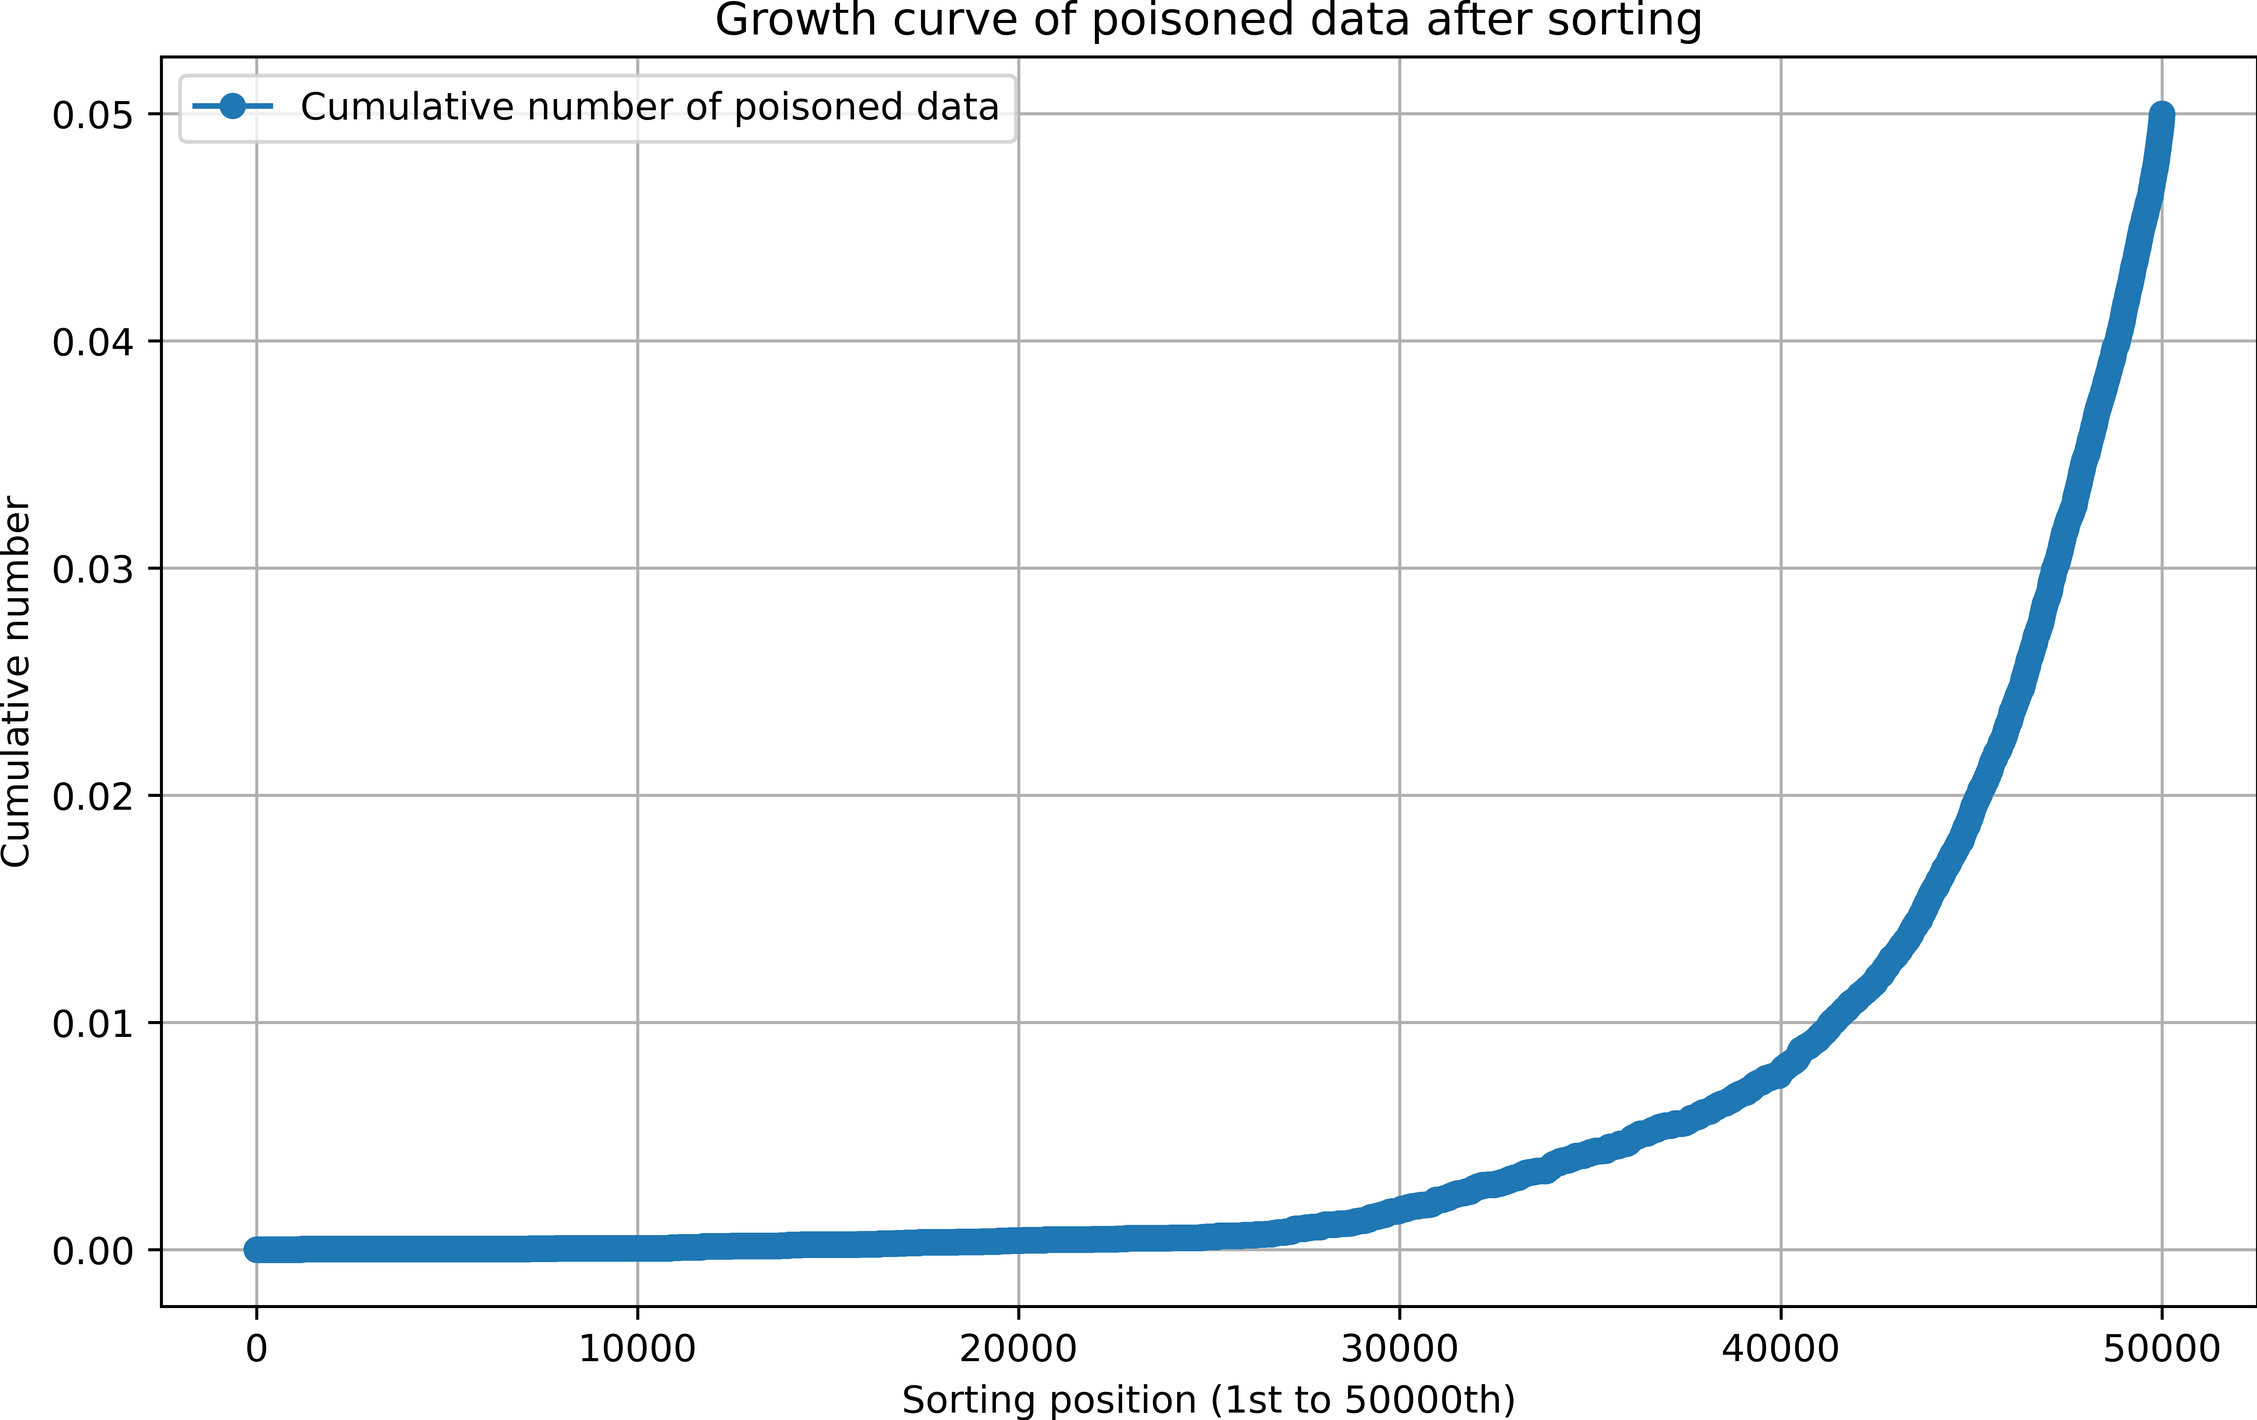
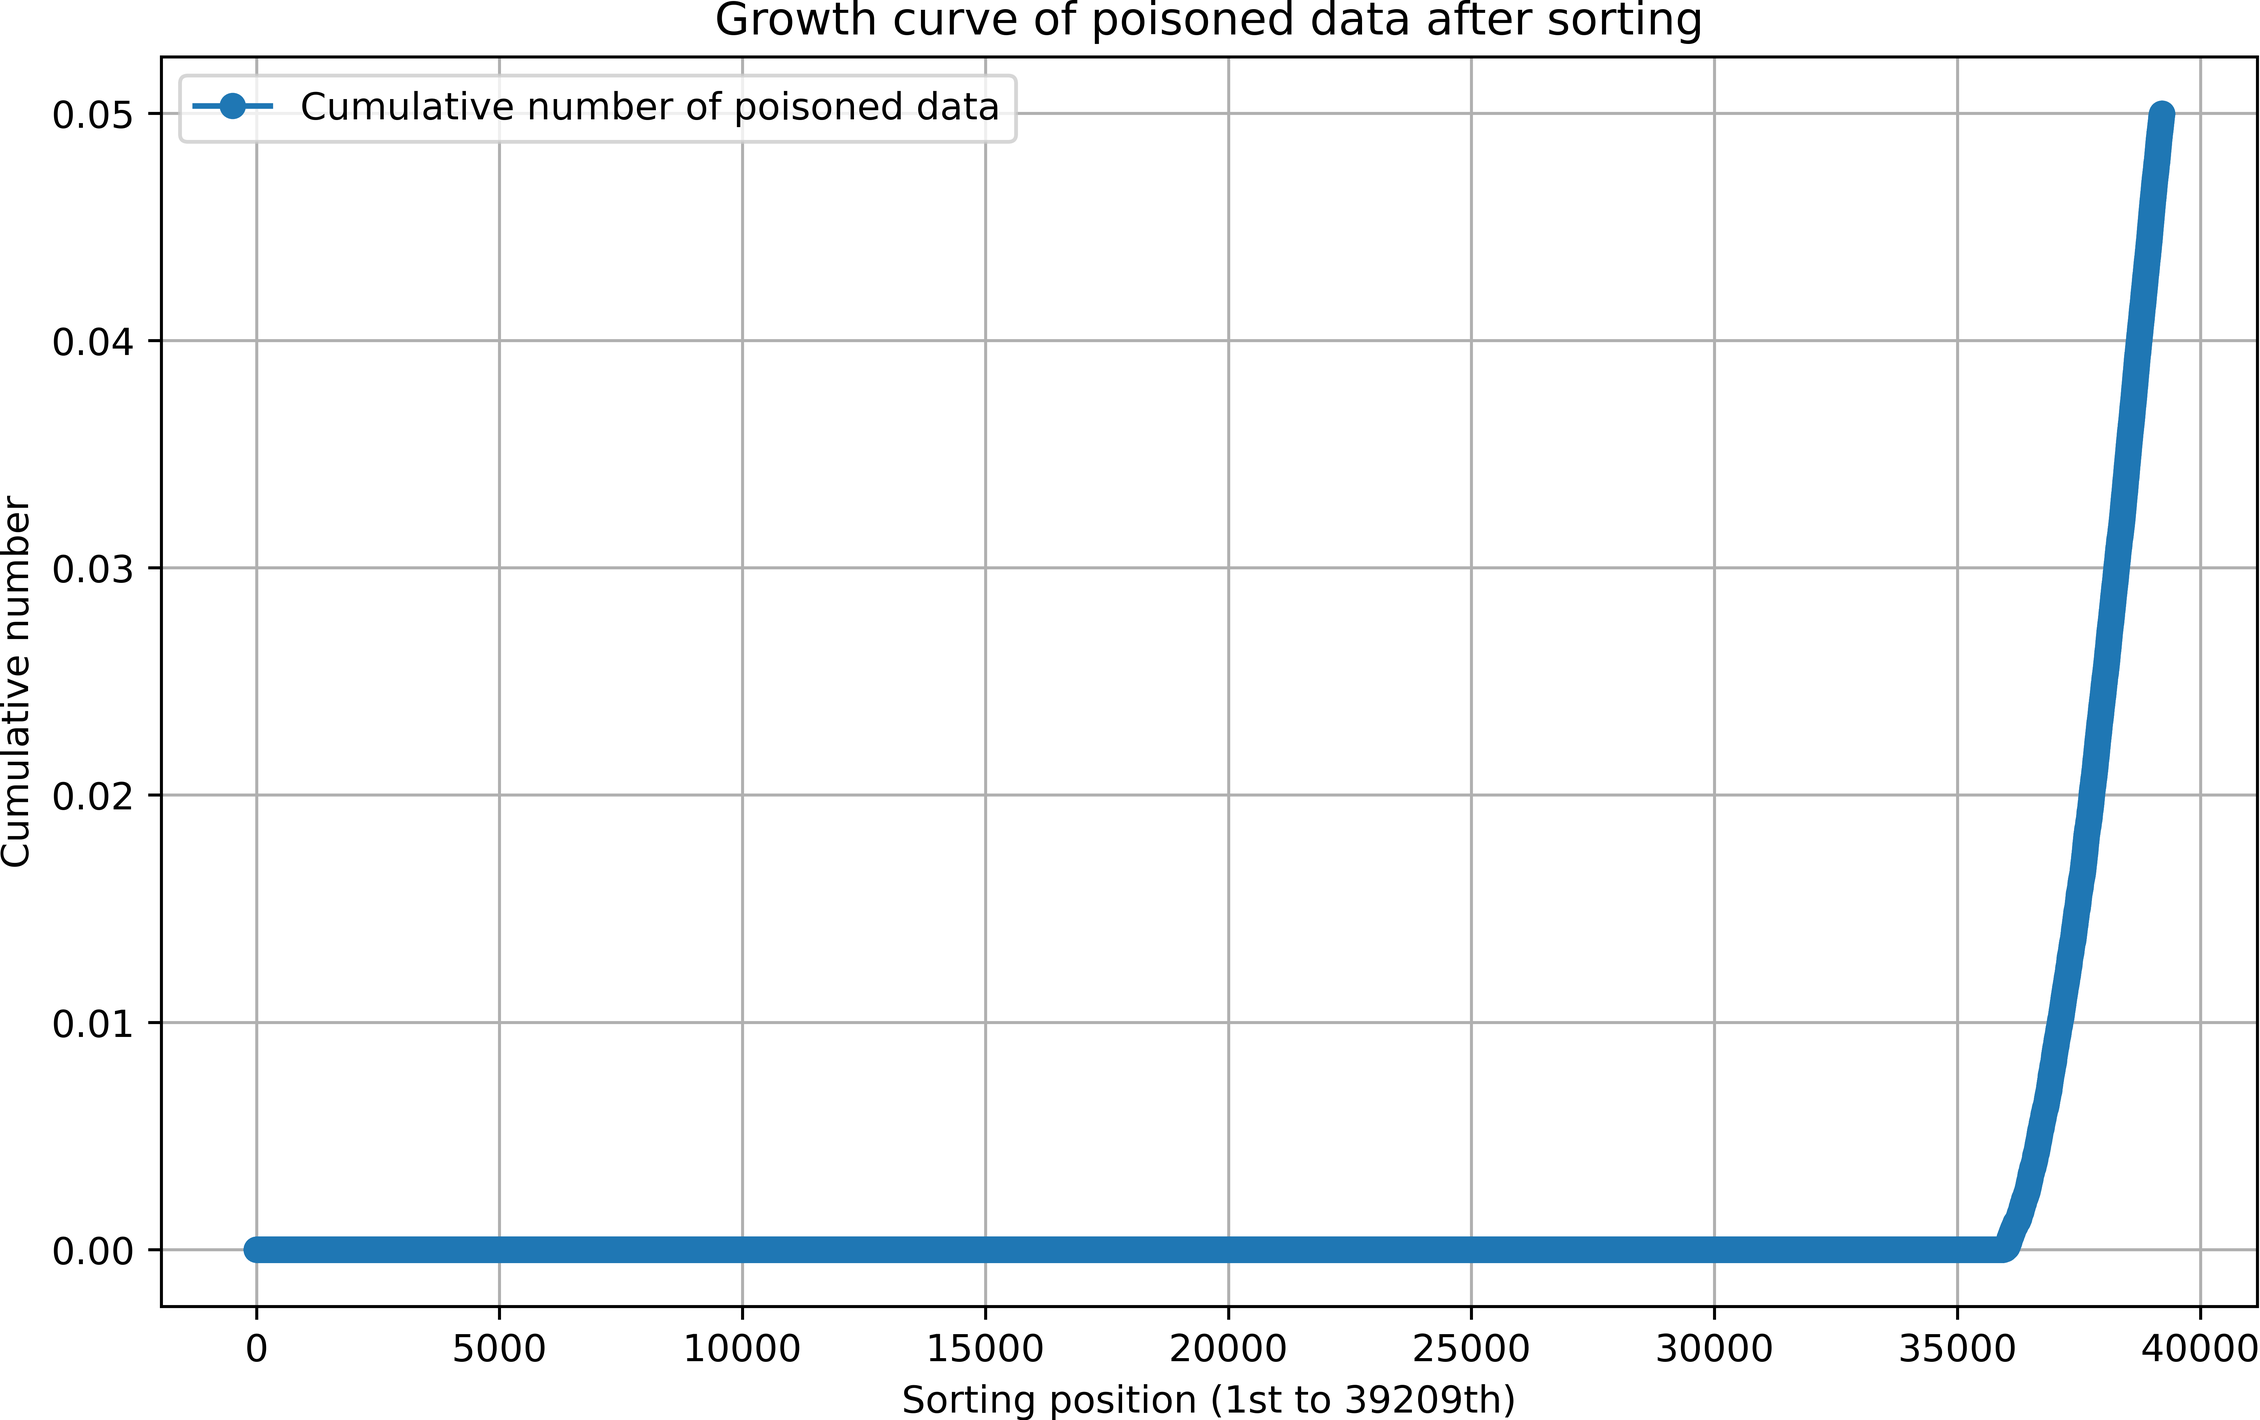
go

diff --git a/codes/ourMethod/defence.py b/codes/ourMethod/defence.py
@@ -71,7 +71,7 @@ def sampling_analyse(loss_array,poisoned_ids,sample_idx_array,gt_label_array):
     plt.title('Growth curve of poisoned data after sorting')
     plt.legend()
     plt.grid(True)
-    plt.savefig("imgs/ASD_1.png", bbox_inches='tight', pad_inches=0.0, dpi=800)
+    plt.savefig("imgs/OM3_1.png", bbox_inches='tight', pad_inches=0.0, dpi=800)
     plt.close()
     '''
     分析2：分析下采样出的样本排名分布，因为ASD是直接基于排名进行采样的，即直接采样排名前50%的样本，
@@ -94,7 +94,7 @@ def sampling_analyse(loss_array,poisoned_ids,sample_idx_array,gt_label_array):
     plt.xlabel('Position Index')
     plt.colorbar()
     plt.yticks([])
-    plt.savefig("imgs/ASD_2.png", bbox_inches='tight', pad_inches=0.0, dpi=800)
+    plt.savefig("imgs/OM3_2.png", bbox_inches='tight', pad_inches=0.0, dpi=800)
     plt.close()
     '''
     分析2：分析下采样出的样本的类别统计分布。因为，我们的方法考虑了样本的标签，不同的标签具有不同的采样概率，因此需要
@@ -139,7 +139,7 @@ def sampling_analyse(loss_array,poisoned_ids,sample_idx_array,gt_label_array):
     plt.ylim(0, 1.2 * max(label_percent))  # 扩大Y轴范围避免文字溢出
     plt.grid(axis='y', linestyle='--', alpha=0.6)
     plt.tight_layout()
-    plt.savefig("imgs/ASD_3.png", bbox_inches='tight', pad_inches=0.0, dpi=800)
+    plt.savefig("imgs/OM3_3.png", bbox_inches='tight', pad_inches=0.0, dpi=800)
     plt.close()
 
 def get_class_sampled_prob_map(classes_rank:list):
@@ -168,6 +168,30 @@ def get_class_sampled_prob_map(classes_rank:list):
         class_map[cls] = prob
     return class_map
 
+def get_class_risk_coef(classes_rank:list) -> dict:
+    classes_num = len(classes_rank)
+    class_risk_coef = {}
+    intervals = []
+    for cut_rate in [0.25,0.5,0.75]:
+        intervals.append(int(cut_rate*classes_num))
+    for i in range(classes_num):
+        cls = classes_rank[i]
+        if i <= intervals[0]:
+            # 排名前25%的分类[0,25%]
+            coef = 1
+        elif i <= intervals[1]:
+            # (25%,50%]
+            coef = 0.75
+        elif i <= intervals[2]:
+            # (50%,75%]
+            coef = 0.5
+        else:
+            # (75%,100%]
+            coef = 0.25
+        class_risk_coef[cls] = coef
+    return class_risk_coef
+
+
 def sampling(samples_num:int,ranked_sample_idx_array,label_prob_map:dict,label_list):
     '''
     采样
@@ -193,7 +217,7 @@ def sampling(samples_num:int,ranked_sample_idx_array,label_prob_map:dict,label_l
     assert len(choice_indice) == samples_num, "数量不对"
     return choice_indice
 
-def sampling_2(samples_num:int,ranked_sample_idx_array, cls_rank, label_list) -> list:
+def sampling_2(samples_num:int,ranked_sample_idx_array, cls_rank:list, label_list) -> list:
     # 排名0-49999
     loc_list = list(range(len(ranked_sample_idx_array)))
     # 位次对应的标签
@@ -204,15 +228,14 @@ def sampling_2(samples_num:int,ranked_sample_idx_array, cls_rank, label_list) ->
         # 该位次样本label
         loc_label_list.append(label_list[sample_id])
     
-    def calculate_weight(idx, label, priority_order):
+    def calculate_weight(idx, label, priority_order, max_index, class_num):
         """计算归一化权重"""
-        max_index = 49999
-        max_coeff = 10.0
+        max_coeff = class_num
         
         # 各类别系数分配（优先级越高的类别系数越大）
         coeff_dict = {}
         for rank, cat in enumerate(priority_order):
-            coeff_dict[cat] = (10 - rank)/max_coeff  # 归一化到0-1
+            coeff_dict[cat] = (max_coeff - rank)/max_coeff  # 归一化到0-1
         
         # 索引归一化到0-1
         index_norm = idx / max_index
@@ -220,18 +243,21 @@ def sampling_2(samples_num:int,ranked_sample_idx_array, cls_rank, label_list) ->
         # 权重 = 系数 × 索引归一化值
         weight = coeff_dict[label] * index_norm
         return weight
+    
     def sample_low_risk(list1, labels, priority_order):
         """按权重排序采样"""
         samples = []
+        max_index = len(list1)-1
+        class_num = len(priority_order)
         for idx, label in zip(list1, labels):
-            weight = calculate_weight(idx, label, priority_order)
+            weight = calculate_weight(idx, label, priority_order, max_index,class_num)
             samples.append( (weight, idx) )
         
         # 按权重从小到大排序，取前25000
         samples.sort(key=lambda x: x[0])
-        selected_indices = [s[1] for s in samples[:25000]]
-        
+        selected_indices = [s[1] for s in samples[:samples_num]]
         return selected_indices
+    
     selected_loc_list = sample_low_risk(loc_list, loc_label_list, cls_rank)
 
     seletcted_sample_id_list = []
@@ -240,6 +266,55 @@ def sampling_2(samples_num:int,ranked_sample_idx_array, cls_rank, label_list) ->
        seletcted_sample_id_list.append(s_id)
     return seletcted_sample_id_list
 
+
+def sampling_3(samples_num:int,ranked_sample_idx_array, cls_rank:list, label_list) -> list:
+    # 排名0-49999
+    loc_list = list(range(len(ranked_sample_idx_array)))
+    # 位次对应的标签
+    loc_label_list = []
+    for loc in loc_list:
+        # 该位次样本id
+        sample_id = ranked_sample_idx_array[loc]
+        # 该位次样本label
+        loc_label_list.append(label_list[sample_id])
+
+    def calculate_weight(idx:int, label, cls_rank:list, max_index:int):
+        """计算权重。基于cls_rank和样本的排名计算样本可疑度。
+
+        Args
+        ----
+        idx:样本的位次
+        label:样本真实分类标签
+        cls_rank:类别可疑程度排序（来源于stage1）
+        max_index:排名最后一位的位次
+        """
+        # 各类别系数分配（将优先级分为4段吗，前1/4段的类别可疑系数设置为1，[1/4,2/4]段的类别可疑系数设置为0.75, [2/4,3/4]段的类别可疑系数设置为0.5, [3/4,4/4]段的类别可疑系数设置为0.25）
+        coeff_dict = get_class_risk_coef(cls_rank)
+        # 索引归一化到0-1
+        index_norm = idx / max_index
+        # 权重 = 系数 × 索引归一化值，值越大，该样本越可疑
+        weight = coeff_dict[label] * index_norm
+        return weight
+    
+    def sample_low_risk(list1, labels, cls_rank:list):
+        """按权重排序采样"""
+        samples = []
+        max_index = len(list1)-1
+        for idx, label in zip(list1, labels):
+            weight = calculate_weight(idx, label, cls_rank, max_index)
+            samples.append( (weight, idx) )
+        
+        # 按权重从小到大排序，取前25000
+        samples.sort(key=lambda x: x[0])
+        selected_indices = [s[1] for s in samples[:samples_num]]
+        return selected_indices
+    selected_loc_list = sample_low_risk(loc_list, loc_label_list, cls_rank)
+
+    seletcted_sample_id_list = []
+    for loc in selected_loc_list:
+       s_id = ranked_sample_idx_array[loc]
+       seletcted_sample_id_list.append(s_id)
+    return seletcted_sample_id_list
 
 def defence_train(
         model, # victim model
@@ -325,7 +400,7 @@ def defence_train(
             record_list = poison_linear_record(model, poisoned_eval_dataset_loader, split_criterion, device,dataset_name=kwargs["dataset_name"], model_name =kwargs["model_name"])
             print("Mining clean data by class-agnostic loss-guided split...")
             # 将trainset对半划分为clean pool和poisoned pool
-            split_indice =  class_agnostic_loss_guided_split(record_list, 0.5, poisoned_ids, class_prob_map=None, classes_rank = classes_rank) # class_prob_map=class_prob_map
+            split_indice =  class_agnostic_loss_guided_split(record_list, 0.5, poisoned_ids, sampling_method="method_3", class_prob_map=None, classes_rank = classes_rank) # class_prob_map=class_prob_map
             xdata = MixMatchDataset(poisoned_train_dataset, split_indice, labeled=True)
             udata = MixMatchDataset(poisoned_train_dataset, split_indice, labeled=False)
         elif epoch < total_epoch: # epoch:[90,120]
@@ -391,7 +466,7 @@ def defence_train(
 
             # 开始干净样本的挖掘
             print("Mining clean data by meta-split...")
-            split_indice = meta_split(record_list, meta_record_list, 0.5, poisoned_ids, class_prob_map=None, classes_rank = classes_rank)
+            split_indice = meta_split(record_list, meta_record_list, 0.5, poisoned_ids, sampling_method="method_3", class_prob_map=None, classes_rank = classes_rank)
 
             xdata = MixMatchDataset(poisoned_train_dataset, split_indice, labeled=True)
             udata = MixMatchDataset(poisoned_train_dataset, split_indice, labeled=False)  
@@ -532,7 +607,7 @@ ranked_sample_idx_array =  loss.argsort()
 samples_num = int(len(ranked_sample_idx_array)*rate)
 choice_idx_list = sampling(samples_num,ranked_sample_idx_array,class_prob_map,gt_label_array)
 '''
-def class_agnostic_loss_guided_split(record_list, ratio, poisoned_indice, class_prob_map=None, classes_rank=None):
+def class_agnostic_loss_guided_split(record_list, ratio, poisoned_indice, sampling_method:str, class_prob_map=None, classes_rank=None):
     """
     Adaptively split the poisoned dataset by class-agnostic loss-guided split.
 
@@ -547,18 +622,28 @@ def class_agnostic_loss_guided_split(record_list, ratio, poisoned_indice, class_
     gt_label_array = record_list[keys.index("target")].data.numpy()
     # 申请出一个flag array，1为干净，0为污
     clean_pool_flag = np.zeros(len(loss))
-    if class_prob_map is not None:
+    if sampling_method == "method_1":
+        assert class_prob_map is not None, "参数不匹配"
         # 按照loss值对样本idx进行排序，loss保持不变
         ranked_sample_idx_array =  loss.argsort()
         # 计算采样数
         samples_num = int(len(ranked_sample_idx_array)*ratio)
         total_indice = sampling(samples_num,ranked_sample_idx_array,class_prob_map,gt_label_array)
-    elif classes_rank is not None:
+        
+    elif sampling_method == "method_2":
+        assert classes_rank is not None, "参数不匹配"
         # 按照loss值对样本idx进行排序，loss保持不变
         ranked_sample_idx_array =  loss.argsort()
         # 计算采样数
         samples_num = int(len(ranked_sample_idx_array)*ratio)
         total_indice = sampling_2(samples_num,ranked_sample_idx_array,classes_rank,gt_label_array)
+    elif sampling_method == "method_3":
+        assert classes_rank is not None, "参数不匹配"
+        # 按照loss值对样本idx进行排序，loss保持不变
+        ranked_sample_idx_array =  loss.argsort()
+        # 计算采样数
+        samples_num = int(len(ranked_sample_idx_array)*ratio)
+        total_indice = sampling_3(samples_num,ranked_sample_idx_array,classes_rank,gt_label_array)
     else:
         total_indice = loss.argsort()[: int(len(loss) * ratio)]
     # 统计构建出的clean pool 中还混有污染样本的数量
@@ -570,7 +655,7 @@ def class_agnostic_loss_guided_split(record_list, ratio, poisoned_indice, class_
         "{}/{} poisoned samples in clean data pool".format(poisoned_count, len(total_indice))
     )
     clean_pool_flag[total_indice] = 1
-    '''
+    
     # 额外分析与可视化
     sampling_analyse(
         loss_array = loss,
@@ -578,10 +663,10 @@ def class_agnostic_loss_guided_split(record_list, ratio, poisoned_indice, class_
         sample_idx_array = total_indice,
         gt_label_array = gt_label_array
         )
-    '''
+    
     return clean_pool_flag
 
-def meta_split(record_list, meta_record_list, ratio, poisoned_indice, class_prob_map=None, classes_rank=None):
+def meta_split(record_list, meta_record_list, ratio, poisoned_indice, sampling_method:str, class_prob_map=None, classes_rank=None):
     """
     Adaptively split the poisoned dataset by meta-split.
     """
@@ -593,19 +678,28 @@ def meta_split(record_list, meta_record_list, ratio, poisoned_indice, class_prob
     # 申请出一个池子，1为干净，0为污
     clean_pool_flag = np.zeros(len(loss))
     loss = loss - meta_loss
-    # dif小的样本被选择为clean样本
-    if class_prob_map is not None:
-        # 按照loss值对样本idx进行排序
+    if sampling_method == "method_1":
+        assert class_prob_map is not None, "参数不匹配"
+        # 按照loss值对样本idx进行排序，loss保持不变
         ranked_sample_idx_array =  loss.argsort()
         # 计算采样数
         samples_num = int(len(ranked_sample_idx_array)*ratio)
         total_indice = sampling(samples_num,ranked_sample_idx_array,class_prob_map,gt_label_array)
-    elif classes_rank is not None:
+        
+    elif sampling_method == "method_2":
+        assert classes_rank is not None, "参数不匹配"
         # 按照loss值对样本idx进行排序，loss保持不变
         ranked_sample_idx_array =  loss.argsort()
         # 计算采样数
         samples_num = int(len(ranked_sample_idx_array)*ratio)
         total_indice = sampling_2(samples_num,ranked_sample_idx_array,classes_rank,gt_label_array)
+    elif sampling_method == "method_3":
+        assert classes_rank is not None, "参数不匹配"
+        # 按照loss值对样本idx进行排序，loss保持不变
+        ranked_sample_idx_array =  loss.argsort()
+        # 计算采样数
+        samples_num = int(len(ranked_sample_idx_array)*ratio)
+        total_indice = sampling_3(samples_num,ranked_sample_idx_array,classes_rank,gt_label_array)
     else:
         total_indice = loss.argsort()[: int(len(loss) * ratio)]
     poisoned_count = 0

diff --git a/codes/config.py b/codes/config.py
@@ -37,15 +37,15 @@ poisoned_rate = 0.05
 ###########################################################
 
 # 当前实验设置的数据集名字
-dataset_name = "ImageNet2012_subset" # CIFAR10, GTSRB, ImageNet2012_subset
+dataset_name = "CIFAR10" # CIFAR10, GTSRB, ImageNet2012_subset
 # 数据集分类任务数量
-class_num = 30 #  CIFAR-10:10,GTSRB:43,ImageNet2012_subset:30
+class_num = 10 #  CIFAR-10:10,GTSRB:43,ImageNet2012_subset:30
 # 当前实验设置的模型名字
 model_name = "ResNet18"
 # 当前实验设置的攻击
-attack_name = "WaNet"
+attack_name = "BadNets"
 # GPU设备
-gpu_id = 0
+gpu_id = 1
 
 
 # baseline ASD配置

diff --git a/codes/test.py b/codes/test.py
@@ -82,14 +82,17 @@ def test15():
     data = [9]*4
     print(data)
 
-
-
 def test17():
     dic = {9:"a",8:"b",0:"c"}
     print(dic.keys())
 
+def test18():
+    a= (10.0-2)/10.0
+    b = (10-2)/10
+    print(a,b)
+
 if __name__ == "__main__":
-    test17()
+    test18()
 
 
 
